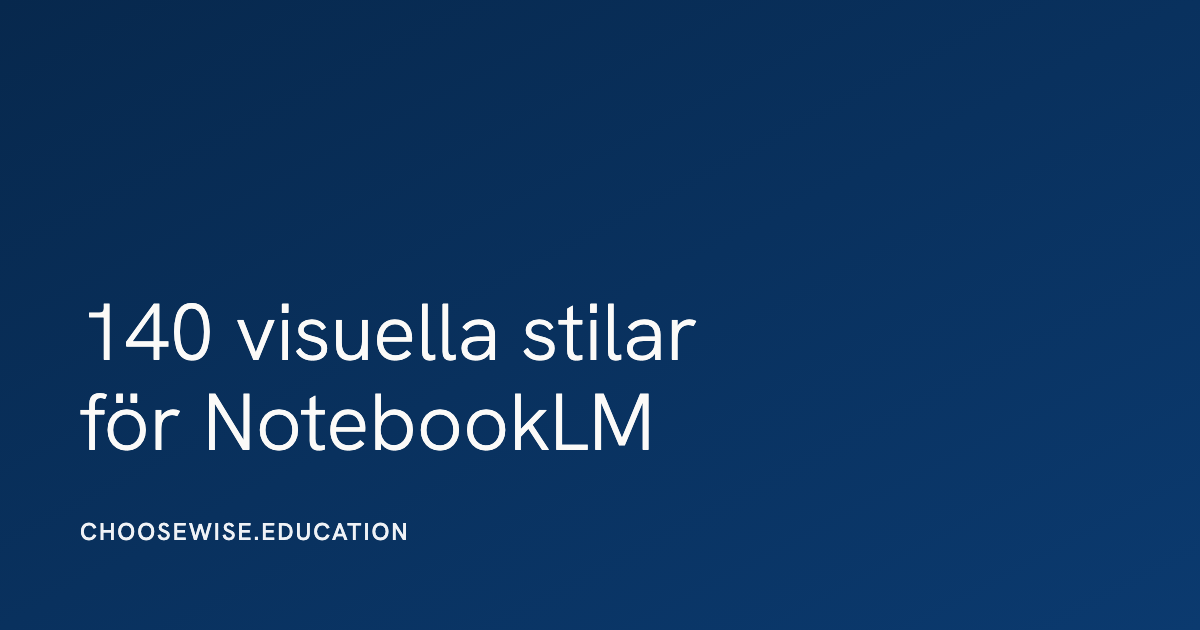
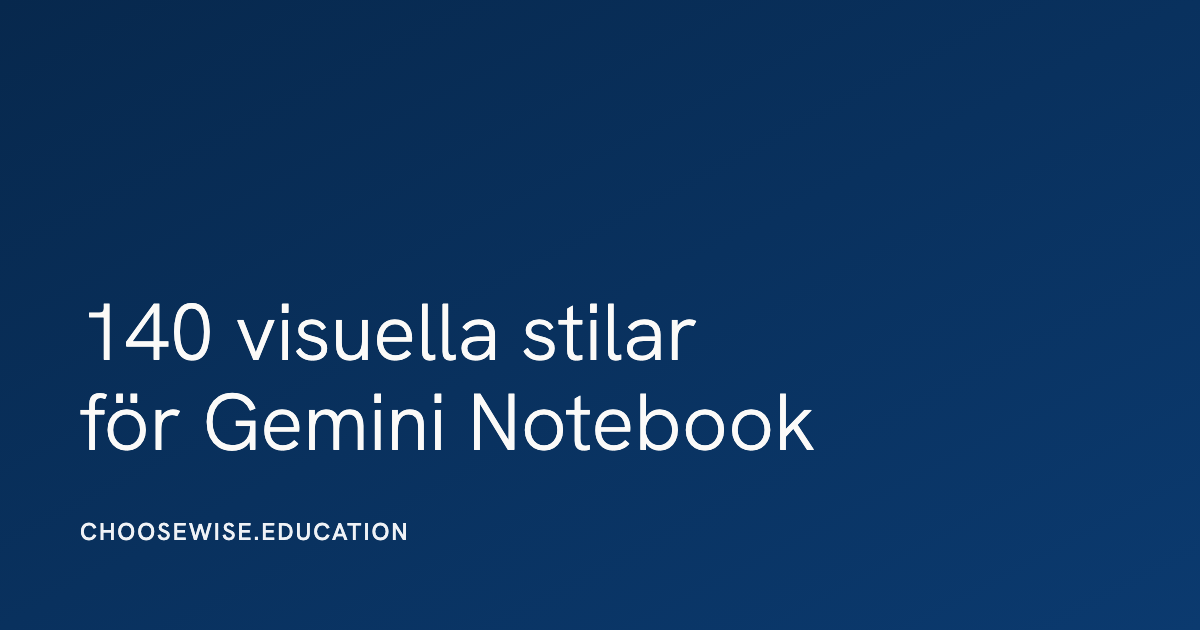
Infografik-stilar: NotebookLM heter Gemini Notebook
Google döpte om NotebookLM till Gemini Notebook 2026-07-16. Sidan på
båda språken, og-korten, llms.txt och integritetssidan använder nu det
nya namnet. Svarsrutan behåller "formerly/tidigare NotebookLM" för sök.
Filnamn och URL:er orörda.

Changed region(s): [[0.1542, 0.6032, 0.6783, 0.7238]]

diff --git a/infographic-styles/index.html b/infographic-styles/index.html
@@ -4,9 +4,9 @@
   <meta charset="UTF-8">
   <meta name="viewport" content="width=device-width, initial-scale=1">
   <title>140 Visual styles for infographics — choosewise.education</title>
-  <meta name="description" content="140 visual style prompts for infographics. Click any card to view the prompt, copy with one tap, and paste into your AI image generator or NotebookLM.">
+  <meta name="description" content="140 visual style prompts for infographics. Click any card to view the prompt, copy with one tap, and paste into your AI image generator or Gemini Notebook.">
   <meta property="og:title" content="140 Visual styles for infographics">
-  <meta property="og:description" content="A library of visual styles for infographics — works in NotebookLM and other AI image generators.">
+  <meta property="og:description" content="A library of visual styles for infographics — works in Gemini Notebook and other AI image generators.">
   <meta property="og:image" content="https://choosewise.education/assets/images/brand/og/notebooklm-en.png">
   <link rel="stylesheet" href="/assets/css/fonts.css">
   <link rel="stylesheet" href="/assets/css/tokens.css">
@@ -29,15 +29,15 @@
 
   <main>
     <section class="page-hero container">
-      <span class="eyebrow" data-reveal>NotebookLM</span>
+      <span class="eyebrow" data-reveal>Gemini Notebook</span>
       <h1 data-reveal>140 Visual styles for infographics</h1>
-      <p class="lede" data-reveal>A library of styles for infographics in NotebookLM (which can also be used in other AI image generators — better text-aware image models keep arriving. ChatGPT's Images 2 model, released in April 2026, is particularly strong at this, so it's worth testing the prompts there too). Click a card, view the prompt, and copy it by clicking the button.</p>
+      <p class="lede" data-reveal>A library of styles for infographics in Gemini Notebook (which can also be used in other AI image generators — better text-aware image models keep arriving. ChatGPT's Images 2 model, released in April 2026, is particularly strong at this, so it's worth testing the prompts there too). Click a card, view the prompt, and copy it by clicking the button.</p>
     </section>
 
     <!-- Answer capsule for "what is an infographics style?" -->
     <section class="seo-answer" data-reveal>
       <h2 class="seo-answer__question">What is an infographics style?</h2>
-      <p class="seo-answer__capsule">An infographics style is a visual prompt that controls how an AI image generator (or NotebookLM) renders an infographic, slide background, or video-overview frame. This catalogue collects 140 reusable styles — from editorial print to dashboard, retro to neon — each with a ready-to-copy prompt. They work in NotebookLM video overviews and slide decks, and also in newer text-aware image models like ChatGPT Images 2 (April 2026) and similar tools.</p>
+      <p class="seo-answer__capsule">An infographics style is a visual prompt that controls how an AI image generator (or Gemini Notebook, formerly NotebookLM) renders an infographic, slide background, or video-overview frame. This catalogue collects 140 reusable styles — from editorial print to dashboard, retro to neon — each with a ready-to-copy prompt. They work in Gemini Notebook video overviews and slide decks, and also in newer text-aware image models like ChatGPT Images 2 (April 2026) and similar tools.</p>
     </section>
 
     <section class="container section">

diff --git a/sv/infografik-stilar/index.html b/sv/infografik-stilar/index.html
@@ -6,7 +6,7 @@
   <title>140 visuella stilar för infografik — choosewise.education</title>
   <meta name="description" content="140 visuella stilar för infografik. Klicka på ett kort för att se prompten, kopiera med ett tryck.">
   <meta property="og:title" content="140 visuella stilar för infografik — choosewise.education">
-  <meta property="og:description" content="Ett bibliotek med 140 visuella stilar för infografik — fungerar i NotebookLM och andra AI-bildgeneratorer.">
+  <meta property="og:description" content="Ett bibliotek med 140 visuella stilar för infografik — fungerar i Gemini Notebook och andra AI-bildgeneratorer.">
   <meta property="og:image" content="https://choosewise.education/assets/images/brand/og/notebooklm-sv.png">
   <link rel="stylesheet" href="/assets/css/fonts.css">
   <link rel="stylesheet" href="/assets/css/tokens.css">
@@ -29,15 +29,15 @@
 
   <main>
     <section class="page-hero container">
-      <span class="eyebrow" data-reveal>NotebookLM</span>
+      <span class="eyebrow" data-reveal>Gemini Notebook</span>
       <h1 data-reveal>140 visuella stilar för infografik</h1>
-      <p class="lede" data-reveal>Ett bibliotek av stilar för infografik i NotebookLM (som även kan användas i andra AI-bildgeneratorer; det kommer hela tiden nya och bättre modeller för att generera bilder med text. I april 2026 släpptes ChatGPTs modell Images 2 som är bra på just detta, så testa gärna promptarna i den modellen också). Klicka på ett kort, se prompten och kopiera den genom att klicka på knappen.</p>
+      <p class="lede" data-reveal>Ett bibliotek av stilar för infografik i Gemini Notebook (som även kan användas i andra AI-bildgeneratorer; det kommer hela tiden nya och bättre modeller för att generera bilder med text. I april 2026 släpptes ChatGPTs modell Images 2 som är bra på just detta, så testa gärna promptarna i den modellen också). Klicka på ett kort, se prompten och kopiera den genom att klicka på knappen.</p>
     </section>
 
     <!-- Svarsblock för "vad är en infografikstil?" -->
     <section class="seo-answer" data-reveal>
       <h2 class="seo-answer__question">Vad är en infografikstil?</h2>
-      <p class="seo-answer__capsule">En infografikstil är en visuell prompt som styr hur en AI-bildgenerator (eller NotebookLM) renderar en infografik, slidebakgrund eller bildruta i en videoöversikt. Den här katalogen samlar 140 återanvändbara stilar — från redaktionellt tryck till dashboard, retro till neon — där varje stil har en färdig prompt att kopiera. De fungerar i NotebookLM video overviews och slides, och även i nyare textmedvetna bildmodeller som ChatGPT Images 2 (april 2026).</p>
+      <p class="seo-answer__capsule">En infografikstil är en visuell prompt som styr hur en AI-bildgenerator (eller Gemini Notebook, tidigare NotebookLM) renderar en infografik, slidebakgrund eller bildruta i en videoöversikt. Den här katalogen samlar 140 återanvändbara stilar — från redaktionellt tryck till dashboard, retro till neon — där varje stil har en färdig prompt att kopiera. De fungerar i Gemini Notebooks video overviews och slides, och även i nyare textmedvetna bildmodeller som ChatGPT Images 2 (april 2026).</p>
     </section>
 
     <section class="container section">

diff --git a/privacy/index.html b/privacy/index.html
@@ -36,7 +36,7 @@
       <div class="container">
         <h2 class="section__title">What we collect</h2>
         <p class="prose"><strong>Email addresses</strong> — only when you actively submit a download form on this site. Along with the address we store which resource you asked for, where you arrived from (for example a link in a YouTube video) and, if you choose to tell us, your role (teacher, school leader or other). We use MailerLite to store the list and send you the requested material plus occasional updates.</p>
-        <p class="prose"><strong>Nothing else.</strong> No analytics, no cookies, no tracking pixels. Your browser remembers that you have already signed up, so you aren't asked again; that note stays on your device and contains no personal data. The WISE handout, the online tests and NotebookLM styles do <em>not</em> require an email, and every prompt is free to read online. The printable PDFs in <a href="/free/">Free resources</a>, including the English prompt packs, are sent by email.</p>
+        <p class="prose"><strong>Nothing else.</strong> No analytics, no cookies, no tracking pixels. Your browser remembers that you have already signed up, so you aren't asked again; that note stays on your device and contains no personal data. The WISE handout, the online tests and Gemini Notebook styles do <em>not</em> require an email, and every prompt is free to read online. The printable PDFs in <a href="/free/">Free resources</a>, including the English prompt packs, are sent by email.</p>
       </div>
     </section>
 
@@ -86,7 +86,7 @@
       <div class="container">
         <h2 class="section__title">Vad vi samlar in</h2>
         <p class="prose"><strong>E-postadresser</strong> — endast när du aktivt fyller i ett nedladdningsformulär på sajten. Tillsammans med adressen sparar vi vilket material du bad om, varifrån du kom till sajten (till exempel via en länk i en YouTube-video) och, om du själv väljer att uppge den, din roll (lärare, skolledare eller annat). Vi använder MailerLite för att hantera listan och skicka det material du efterfrågat samt enstaka uppdateringar.</p>
-        <p class="prose"><strong>Inget annat.</strong> Ingen analytics, inga cookies, inga spårningspixlar. Din webbläsare kommer ihåg att du redan har anmält dig, så att du slipper fylla i adressen igen. Den uppgiften stannar på din enhet och innehåller inga personuppgifter. RÄTT-handouten, de svenska promptpaketen och NotebookLM-stilarna kräver <em>ingen</em> e-post.</p>
+        <p class="prose"><strong>Inget annat.</strong> Ingen analytics, inga cookies, inga spårningspixlar. Din webbläsare kommer ihåg att du redan har anmält dig, så att du slipper fylla i adressen igen. Den uppgiften stannar på din enhet och innehåller inga personuppgifter. RÄTT-handouten, de svenska promptpaketen och Gemini Notebook-stilarna kräver <em>ingen</em> e-post.</p>
       </div>
     </section>
 

diff --git a/scripts/build-og-images.py b/scripts/build-og-images.py
@@ -22,7 +22,7 @@ SECTIONS = [
     ("wise-en",            "The WISE Framework",        "for Education",          "CHOOSEWISE.EDUCATION", "#0B3A6F"),
     ("guides-en",          "AI Guides",                 "for schools",            "CHOOSEWISE.EDUCATION", "#0B3A6F"),
     ("prompts-en",         "Prompts",                   "for schools",            "CHOOSEWISE.EDUCATION", "#0B3A6F"),
-    ("notebooklm-en",      "140 visual styles",         "for NotebookLM",         "CHOOSEWISE.EDUCATION", "#0B3A6F"),
+    ("notebooklm-en",      "140 visual styles",         "for Gemini Notebook",    "CHOOSEWISE.EDUCATION", "#0B3A6F"),
     ("evidence-en",        "Evidence Toolkit",          "for schools",            "CHOOSEWISE.EDUCATION", "#0B3A6F"),
     ("visualcodes-en",     "50 visual codes",           "for ChatGPT",            "CHOOSEWISE.EDUCATION", "#0B3A6F"),
     ("visualcodes-video-en", "Visual codes",            "for video",              "CHOOSEWISE.EDUCATION", "#0B3A6F"),
@@ -34,7 +34,7 @@ SECTIONS = [
     ("wise-sv",            "RÄTT-modellen",             "för utbildning",         "CHOOSEWISE.EDUCATION", "#0B3A6F"),
     ("guides-sv",          "AI-guider",                 "för skolan",             "CHOOSEWISE.EDUCATION", "#0B3A6F"),
     ("prompts-sv",         "Promptar",                  "för skolan",             "CHOOSEWISE.EDUCATION", "#0B3A6F"),
-    ("notebooklm-sv",      "140 visuella stilar",       "för NotebookLM",         "CHOOSEWISE.EDUCATION", "#0B3A6F"),
+    ("notebooklm-sv",      "140 visuella stilar",       "för Gemini Notebook",    "CHOOSEWISE.EDUCATION", "#0B3A6F"),
     ("about-sv",           "Johan Lindström",           "Skolutvecklingskonsult", "CHOOSEWISE.EDUCATION", "#C2793A"),
 ]
 
